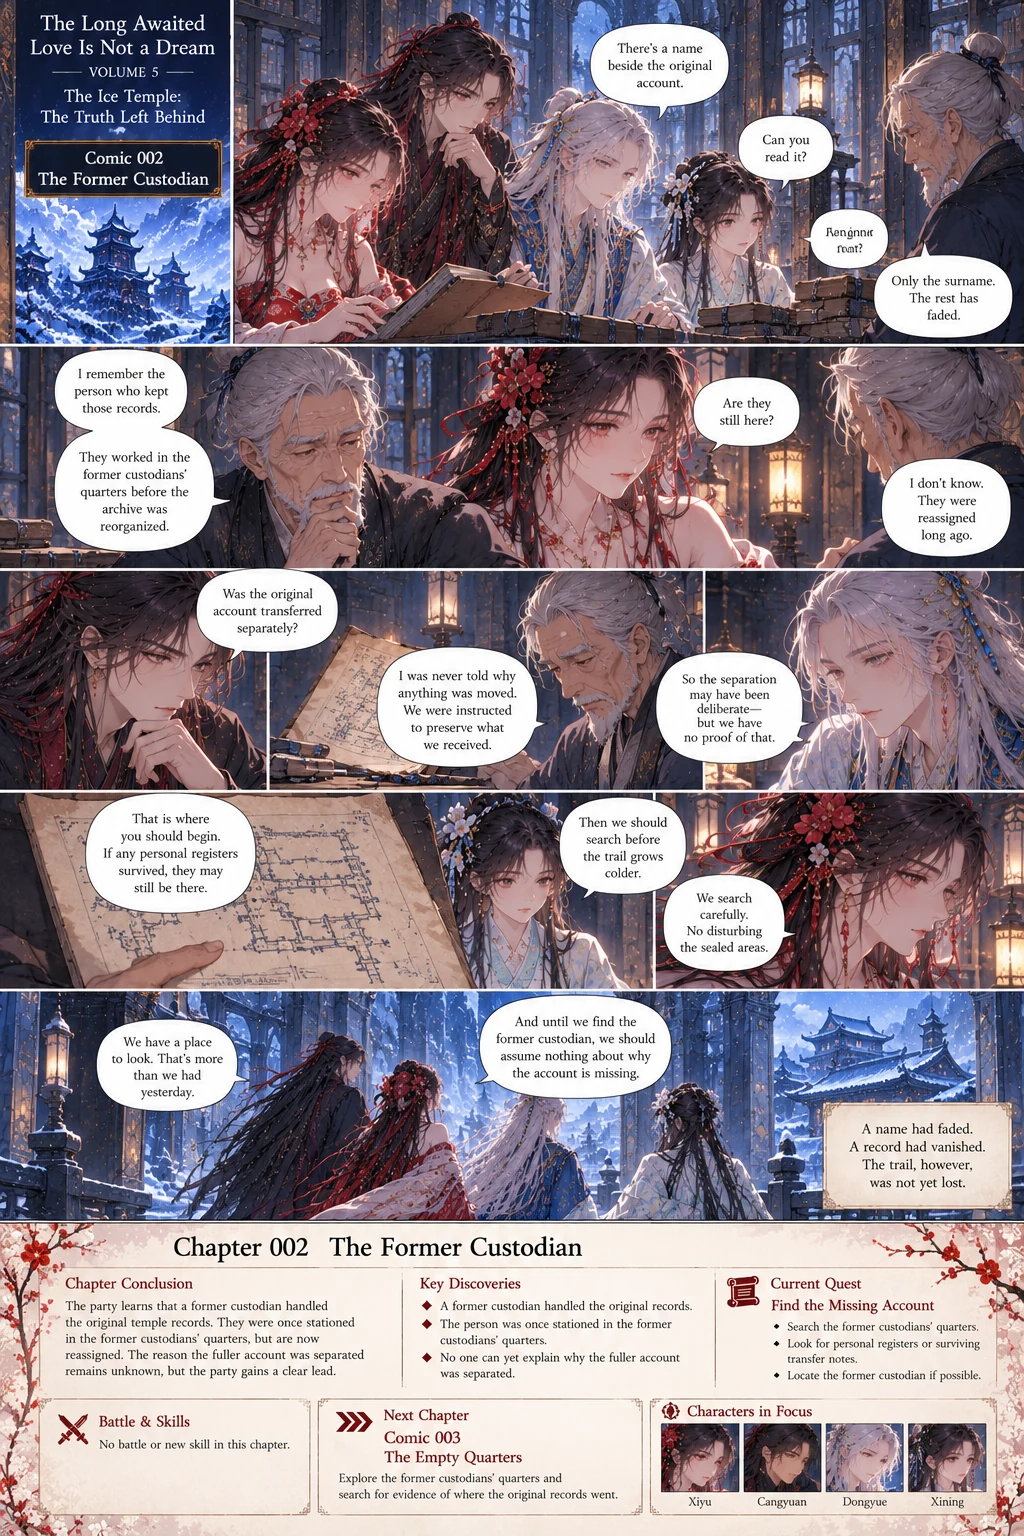
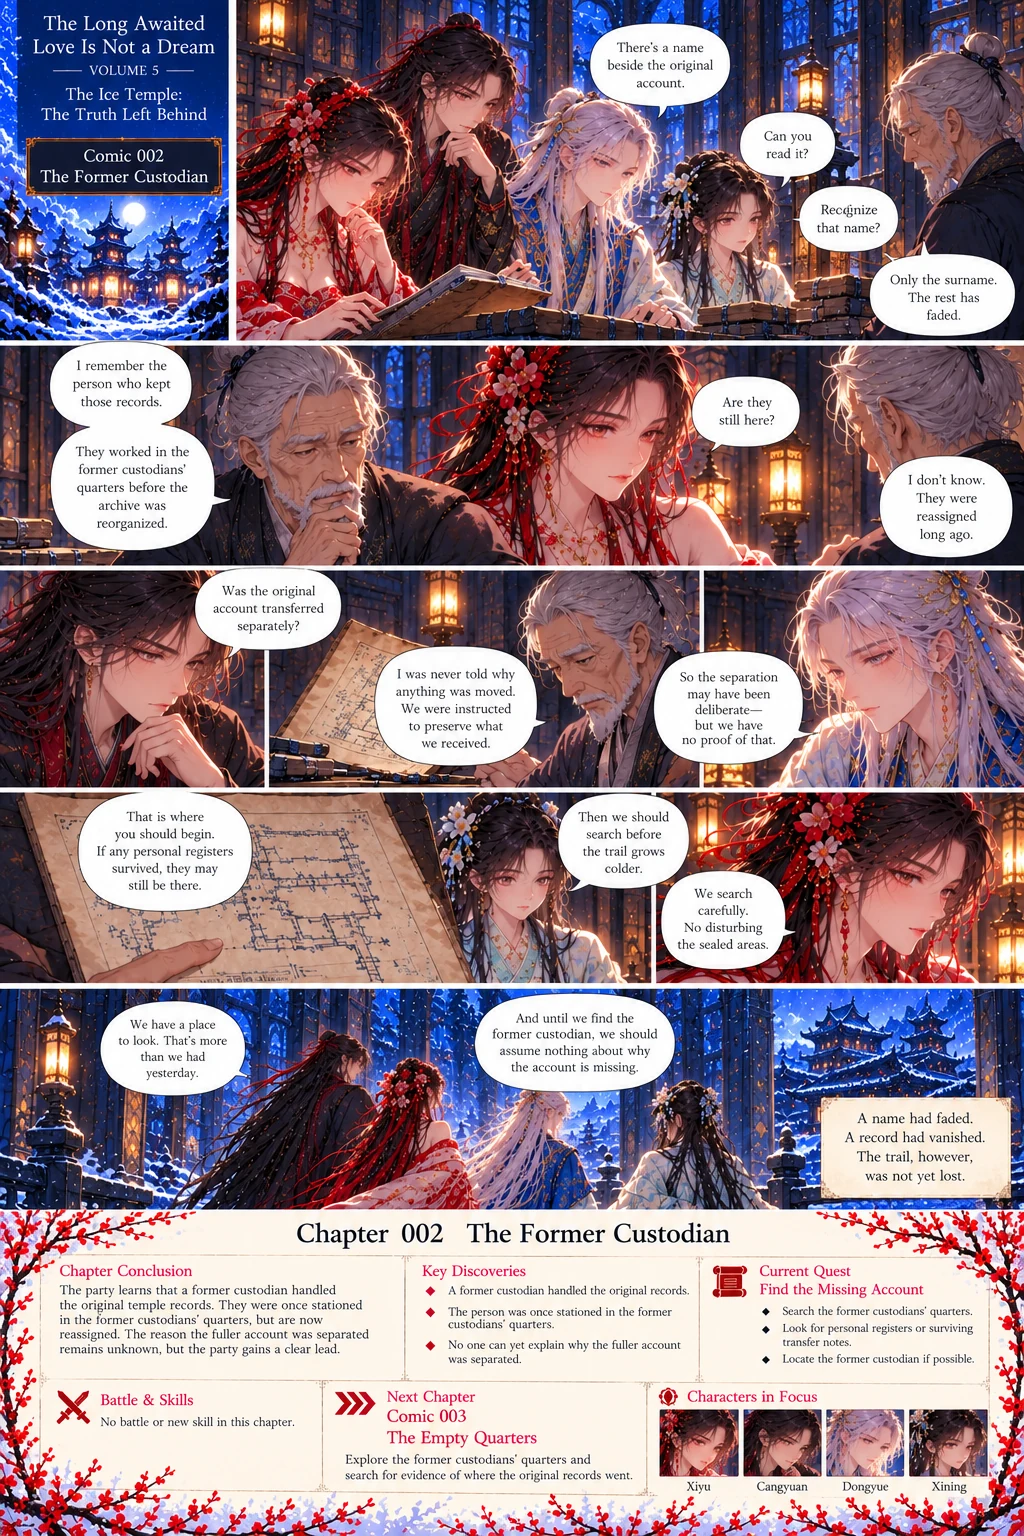
Volume 5: install re-supplied pages 002, 018, 023, 025
Claude-Session: https://claude.ai/code/session_01XEYzSJa6dBuS74MycM45Hs

diff --git a/docs/VOLUME2.md b/docs/VOLUME2.md
@@ -209,3 +209,5 @@ Two Wilds zones open at chapter 117, for a party staying in the Ice Temple:
 - **Still to fix on the author's side:** comic 019 and the comic 017 dialogue still call the reviewer "Li Wen" (019: "I remember Li Wen", "Li Wen"); comic 017 may need checking. Typos: 025 "OR-3T" and "the crine incomplete"; 023 "thaat", "Butiat"; 018 "reorganiaation"; 016 "Raim:"; 013 "itr"; 002 garbled bubble; V4 052 "camme". 025's Arc Progress says "The records trail has resolved Yan's motives" (probably "has not resolved"). The "Year of Frost Moon" (001) and Years 2/3/12 in the registers are a separate, relative system.
 
 - **Re-supplied 025 and 019 (second pass):** both installed. 025's Arc Progress now reads "has not resolved Yan's motives" (fixed). 019 now says Su Chengyuan (蘇承遠). Remaining on 019: the batch number still reads "OR-3T" on the Transfer Record (the game uses OR-37, as on 020-021), and the Chapter Conclusion's last lines are garbled text ("The clerk remembers the former reviewereabouts. The surviving index to a prying plar cunsfer"). 025 now has a trailing tidy page; its "Yan consulted a record..." line matches the game.
+
+- **Third pass (002, 018, 023, 025 re-supplied, installed):** 002 garbled bubble now reads "Recognize that name?" (one glyph looks malformed). Remaining on 018: Key Discoveries "aarlier reorganization", Conclusion "are they find the reviewer" (should be "can they find"). 023: Conclusion "thhat". 025: Final Discoveries "consuiled" (one glyph). Still open elsewhere: 013 "itr", 016 "Raim:", 019 "OR-3T" and garbled Conclusion tail, V4 052 "camme".
